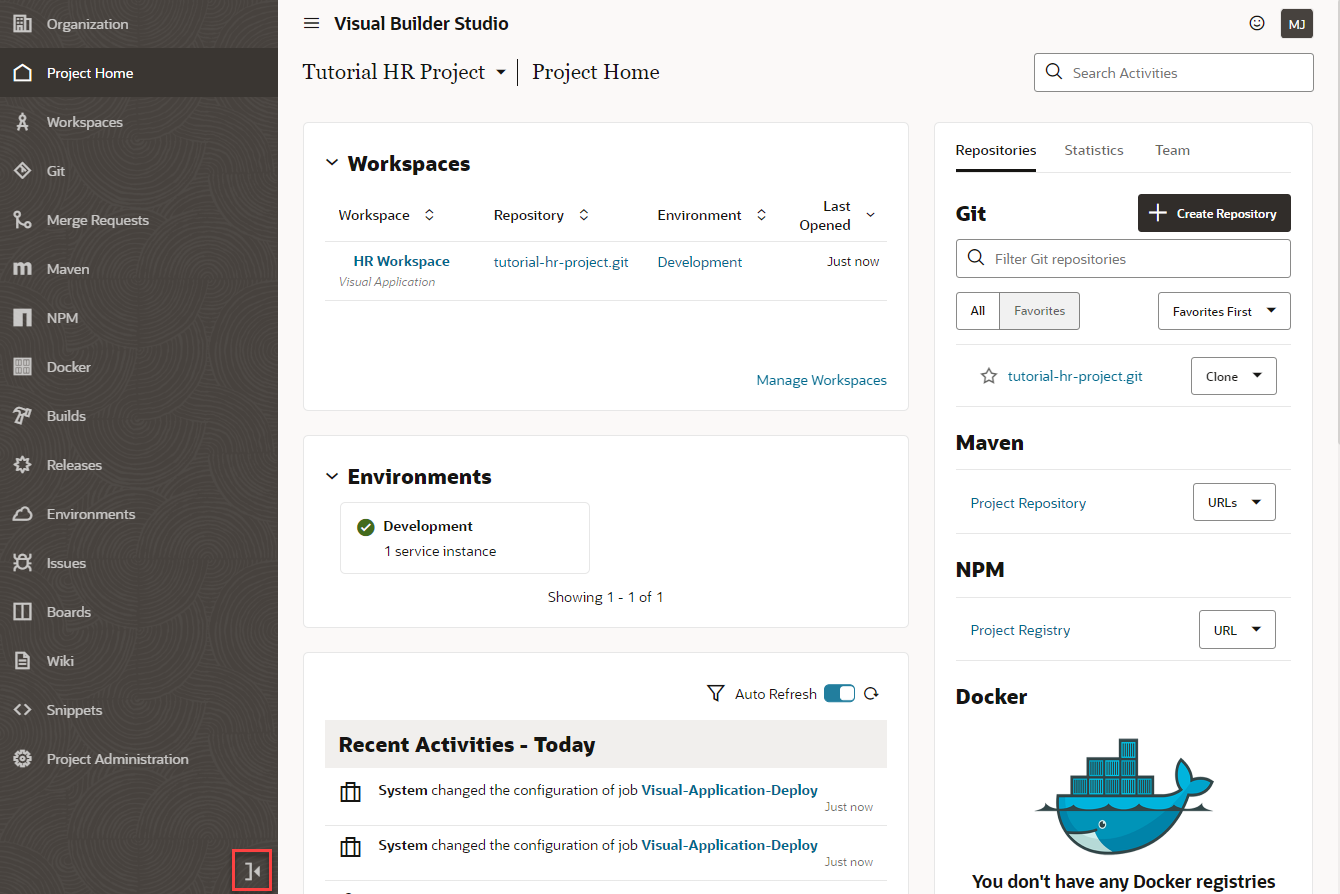
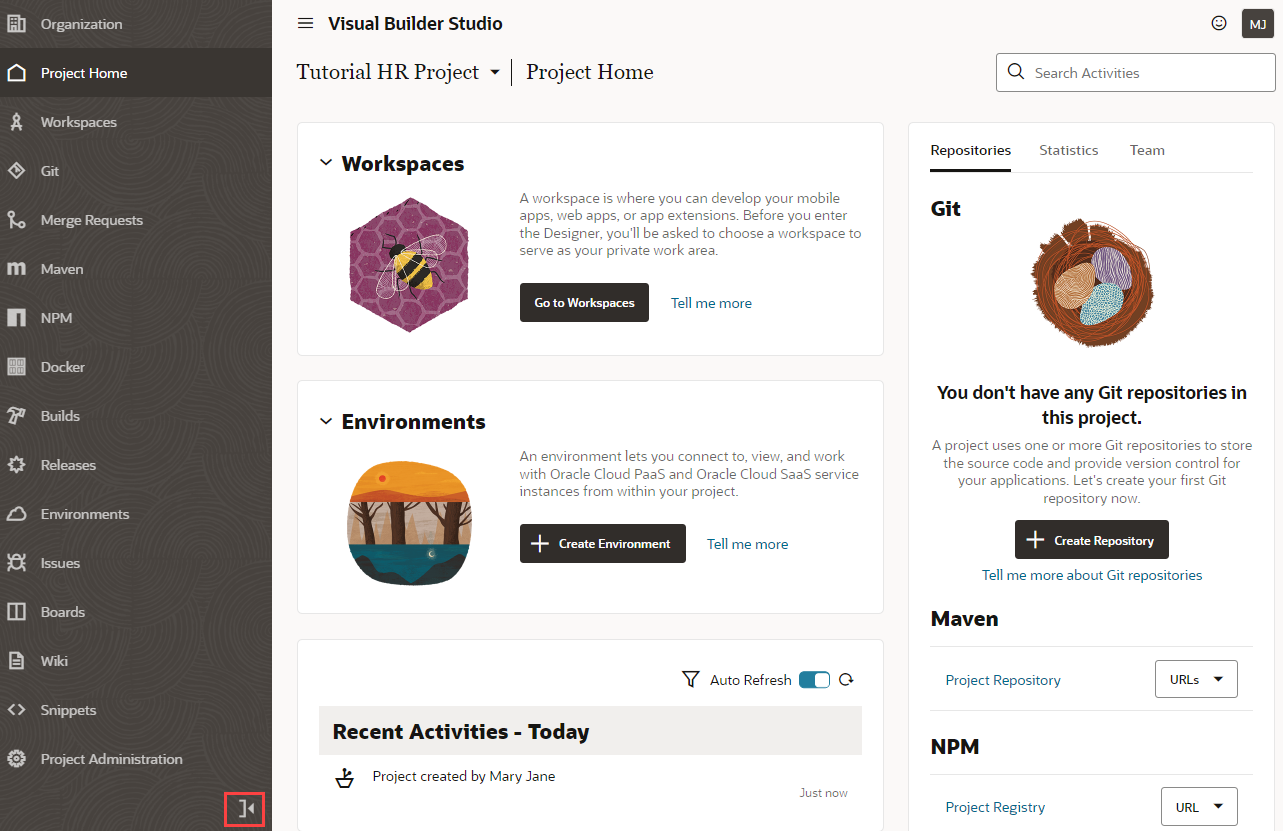
WMS 4121: Change visual app template details (#245)
* test update

* revert test update

* 23.10

- introduction
- spinupvb for Oracle Integration

* 23.10

* 23.10

* 23.10

* 23.10

* 23.10

* 23.10

* 23.10

* 23.10 changes

* 23.10

* 23.10

* updates without vis app template

Added new tasks on creating env and workspace

* changes for vis app template

- removed "explore project" and "add creds" tasks and added workspace tour in create-project
- removed workspace tour steps
- added concepts of remote and local repo to save-changes
- added deployment creds step to publish-app

* Update create-project.md

* minor update

* runthrough of steps after removing visapp template

* add detail on VB credentials option

diff --git a/visual-builder/studio/create-web-app/create-project/create-project.md b/visual-builder/studio/create-web-app/create-project/create-project.md
@@ -8,23 +8,24 @@ Estimated Time: 15 minutes
 
 ### About this Lab
 
-In this workshop, you'll build a simple Human Resources app using a _project_ with a _visual application_ template as the starting point. Every project in VB Studio is devoted to a discrete software effort, and the project you create in this lab is exclusive to the HR app. The project brings together all the tools you need to create your app: a Git repository to store your source code, a pipeline to provide continuous integration and delivery, an issue tracking system, and more. Because it is based on the visual application template, it will have everything you need to visually develop an application.
+In this workshop, you'll build a simple Human Resources app using a _project_. Every project in VB Studio is devoted to a discrete software effort, and the project you create in this lab is exclusive to the HR app. The project brings together all the tools you need to create your app: a Git repository to store your source code, an environment to deploy your application, a pipeline to provide continuous integration and delivery, an issue tracking system, and more.
 
-As part of your project, you'll also create a _workspace_, a completely private area for you to work on your application. The changes you make in your workspace are stored in a clone of the project's Git repository, and are not visible to others until you share or publish them. A workspace also connects you to the development environment where you plan to host your application, which must be a separate Visual Builder (VB) instance.
+As part of your project, you'll also create a _workspace_, a completely private area for you to work on your application. The changes you make in your workspace are stored in a clone of the project's Git repository, and are not visible to others until you share or publish them.
 
 ### Objectives
 
 In this lab, you will:
 
 * Create a project for a visual application
-* Add credentials to deploy the visual application to your VB instance
+* Create an environment with a separate Visual Builder instance
+* Create a workspace to work on your visual application
 
 ### Prerequisites
 
 This lab assumes you have:
 
 * A Chrome browser
-* A VB Studio instance and a separate VB instance
+* A VB Studio instance and a separate Visual Builder instance
 
 ## Task 1: Create a project for a visual application
 
@@ -43,16 +44,11 @@ As someone who creates a project, you'll automatically become the project's owne
 
     Click **Next**.
 
-3. On the Project Template step, select **Visual Application** and click **Next**.
+3. On the Project Template step, select **Empty Project** and click **Next**.
 
-4. On the Project Properties step:
+    ![The New Project wizard with the Empty Project template selected.](images/empty-project.png)
 
-    * Leave the **Git Repository Name** as **tutorial-hr-project.git** (based on the project name).
-    * Click **Development VB Instance** to select the VB instance where you plan to deploy your application. If you have only one VB instance provisioned, it will be automatically selected as your environment's development instance.
-    * Change the **Workspace Name** from **Workspace 1** (the default) to **HR Workspace**.
-    * Change the **Working Branch Name** from **branch1** (the default) to **hrbranch**.
-
-    Click **Next**.
+4. On the Project Properties step, leave **Wiki Markup** as **Markdown** and click **Next**.
 
 5. On the Project Team Members step, add other members of your team who will work with you on this visual application.
 
@@ -64,63 +60,82 @@ As someone who creates a project, you'll automatically become the project's owne
 
     Now click **Finish**.
 
-    Wait for the project to be provisioned. Once provisioning completes, you'll see the Project Home page, which serves as a window to your workspace, your environments, and repositories, as well as a recent activities feed. On the left are a series of tabs showing the available project components.
+    Wait for the project to be provisioned. Once provisioning completes, you'll see the Project Home page, which serves as a window to your workspaces, environments, and repositories, as well as a recent activities feed. On the left are a series of tabs showing the available project components.
 
-    ![The Project Home page includes a Workspaces area with the newly created HR Visual Application workspace. An Environments area shows the Development instance associated with this project. If you click Reset Filters, a Recent Activities feed lists what was done in the project today. On the right, the Repositories tab is selected to show the tutorial-hr-project.git. The Statistics and Team tabs are also visible.](images/project-home.png "Project Home page")
+    ![The Project Home page includes a Workspaces area, Environments area, and a Recent Activities feed. On the right, the Repositories tab, Statistics, and Team tabs are also visible.](images/project-home.png "Project Home page")
 
     Click ![Show/Hide Labels icon](images/show-hide-labels-icon.png) to hide the labels and increase screen space.
 
-## Task 2: Explore the project environment
+    Because we created a project with no preconfigured settings or content, we need to create what we need, by defining an environment that connects to a Visual Builder instance, then creating a workspace with a Git repository.
 
-Everything you need to start building a visual application is now created for you in this project. Let's step through some key components to better understand your project environment.
+## Task 2: Create an environment with a Visual Builder instance
 
-1. On the Project Home page, the **tutorial-hr-project.git** repository shows  under Workspaces as well as in the Repositories tab on the right. This Git repo stores your visual application's source files and is known as the project's _remote_ repository. Click the **tutorial-hr-project.git** link in the Workspaces table to go to the Git page. Here, you can see your project's remote branches, **main** and **hrbranch**, created with initial content for your visual application. Select **hrbranch**; the **main** branch is the default branch created when a new repository is generated and is the project's source of truth.
+Define an environment that points to your Visual Builder development instance, where your visual application can be deployed from within the project.
 
-    ![Contents of the tutorial-hr-project.git repository. Both the main and hrbranch branches are visible, with the hrbranch selected.](images/repo.png "Git page")
+1. On the Project Home page, click **Create Environment** under Environments.
 
-2. In the left navigator, click![Workspaces icon](images/vbs-workspaces-icon.png)**Workspaces** to view the **HR Workspace**. This workspace contains a working copy of **hrbranch** and serves as your _local_ repository. The **hrbranch** initially has the same set of source files as the **main** branch, but as you work with your visual application, it will include the changes you make. Your changes can't be seen by others until you save them from the local branch to a remote branch.
+    ![The Environments section on the Project Home page, showing the Create Environment button.](images/env-create.png)
 
-    ![The newly created HR Visual Application in the Workspaces table. Its repository is set to tutorial-hr-project.git, current branch is set to hrbranch, and environment is set to Development.](images/workspace.png "Workspaces page")
+2. Enter **Development** as the **Environment Name**; optionally, add a description. Click **Create**.
 
-3. Click ![Environments icon](images/vbs-environments-icon.png) **Environments** in the left navigator to view the development environment that points to your VB instance. Here, you can view details of your VB instance and all the applications you deploy to this instance.
+3. On the Environments page, click **Add Instance** to add a Visual Builder instance to your **Development** environment.
 
-    ![Development environment, with a single Visual Builder instance in the Service Instances tab. The Details, Certificates, and Deployments tabs are also visible.](images/env.png "Environments page")
+    ![The empty Development environment shown on the Environments page. An Add Instance button is shown in the Service Instances tab. The Details and Certificates tabs are also visible.](images/env-add-instance.png "Environments page")
 
-4. Click ![Builds icon](images/vbs-builds-icon.png)**Builds** in the left navigator to view the default build jobs that package and deploy your visual application to the development instance. The **Visual-Application-Package** job generates the visual application's artifact files. The **Visual-Application-Deploy** job deploys the artifact files to the development instance.
+4. In the Add Service Instances dialog, with **Instance Type** set to **Visual Builder and Oracle Integration** and **Authentication Method** set to **Identity Domain** on the left, locate the Visual Builder instance in your tenancy. Once you find the instance you want to use, select it and click **Add**.
 
-    ![Jobs tab on the Builds page. It lists two default jobs Visual-Application-Deploy and Visual-Application-Package in the All Jobs tab. Both jobs include Actions on the right to Build, Configure, View Last Build Log, and Delete. Other tabs that you can use to filter are Successful Jobs, Failed Jobs, and Test Failed Jobs. A Create Job button is also visible.](images/build-jobs.png "Jobs tab on Builds page")
+    ![The Add Service Instances dialog with myVBinstance of type Visual Builder IDCS Resource selected. An Add button is also shown.](images/env-add-service-instances.png "Environments page")
 
-5. On the Builds page, click **Pipelines** to view the **Visual Application - Package and Deploy** pipeline, which contains the two jobs we saw in the previous step. Pipelines create a chain of builds to define job dependencies. From the pipeline's **Actions** ![Actions icon](images/vbs-actions-icon.png) menu, select **View Layout** to view the defined sequence of jobs.
+    **Note:** If the Visual Builder instance you want to use does not show up in the list of instances, select **Visual Builder Credentials** under **Authentication Method**, then enter the URL to your Visual Builder instance's home page (for example, http://yourserver/ic/builder), the credentials of a user who can access that instance, and click **Add**.
 
-    ![This image shows the Pipelines tab on the Builds page, with a diagram showing the sequence of jobs: Visual-Application-Package followed by Visual-Application-Deploy. A Create Pipeline button is also visible. On the right, there are action buttons to view Instances of a pipeline as well as Build, Configure, and Delete a pipeline.](images/build-pipeline.png "Pipelines tab on Builds page")
+    Wait for the instance's Status to turn green, from 'Unknown' to 'Available'.
 
-    You'll see that the visual application pipeline, by default, runs the package job before the deploy job, so the latest application artifacts are packaged for deployment.
+5. Click ![Project Home icon](images/vbs-project-home-icon.png) **Project Home** in the left navigator to see your environment now defined.
 
-    Click **Builds** in the breadcrumbs trail to return to the main Builds page.
+## Task 3: Create a workspace for a visual application
 
-## Task 3: Add credentials to deploy the visual application
+You now need to create a workspace, a private area for you to work on your visual application. A workspace is typically associated with a Git repository where all your source files are stored.
 
-Now that your project is provisioned, let's set up the credentials that VB Studio will use to deploy your visual application to the VB development instance.
+1. On the Project Home page, click **Go to Workspaces** under Workspaces.
 
-1. Click **Jobs** on the Builds page, then from the **Actions**![Actions icon](images/vbs-actions-icon.png) menu for the **Visual-Application-Deploy** job, select **Configure**.
+2. On the Workspaces page, click **New**, then select **New Visual Application**.
 
-    ![Jobs tab on the Builds page. The Visual-Application-Deploy job in the table is selected, with its Configure button in focus.](images/build-auth.png "Configure option for Visual-Application-Deploy")
+    ![The Workspaces page with New and New Visual Application options selected.](images/workspaces-new.png "Workspaces page")
 
-2. On the Job Configuration page, click **Steps**.
+3. In the New Visual Application dialog:
 
-3. In the **Username** and **Password** fields, enter the credentials of a user who can deploy to the VB development instance.
+    * Enter **HR Workspace** as the **Workspace Name**.
+    * Select **Development** (where you previously added a Visual Builder instance) as the **Development Environment**.
+    * Leave **Default VBCS Application** as the **Visual Application Template**.
+    * Click **Create new repository** under **Git Repository**, then enter **tutorial-hr-project** as the **Repository Name** and **hrbranch** as the **Working Branch Name**.
 
-    ![Steps tab in the Job Configuration page. Both the Username and Password fields are highlighted to indicate that these fields must be updated.](images/build-auth-credentials.png "Steps tab on Job Configuration page")
+    Click **Create**.
 
-   **Tip:** Before you save your changes, take a quick look at some other settings on this page:
-    * The **Include the application version in the URL** check box (selected by default) adds a version to the URL when your application is deployed (for example, <https://host/something-else/0.1/index.html>) and is useful to identify multiple versions during development. When your app is ready to go live, you'll want to deselect this option so your application URL is something like <https://host/something-else/live/index.html> (without a version number in it).
-    * The **Use clean database** option (also selected by default) uses a new database to store your application's data. To keep your data after initially importing it (which we'll do in a later lab), you'll need to select the **Keep existing environment data** option.
+    Once your workspace is created, it opens on the Welcome page in the integrated development environment known as the Designer. The Welcome page is a launching point for connecting to data, creating apps, or adding artifacts. Before we proceed, let's take a tour of the Designer to better understand your workspace.
 
-    Click **Save**.
+    ![This image shows part of the HR Visual Application's Welcome page. The page contains tiles in three sections: Connect to Data, Create Apps, and Add Artifacts. On  the right are sections with references to documentation and other resources.](images/visual-app-welcome.png "Welcome page in the Designer")
 
-    You may **proceed to the next lab**.
+    On the left edge is a vertical toolbar with icons representing Web Applications, Service Connections, Business Objects, and so on. This toolbar is the Navigator, which helps you move between the artifacts in your visual application.
+
+    Now take a look at the header:
+
+    ![Header in the HR Visual Application workspace. The workspace name HR Visual Application is on the left. Next to it, the Git repository and current branch tutorial-hr-project.git / hrbranch are visible. On the right are icons that let you perform other actions: Undo, Redo, Preview, Publish Changes, Product Feedback, Go to File, and Menu.](images/header.png "Header")
+
+    On the left is the name of your current workspace, **HR Workspace**. Next to it is the project's Git repository and the branch currently associated with your workspace (**tutorial-hr-project.git/hrbranch**). A Git repository typically includes the default branch (**main**) and a branch where your changes are stored (**hrbranch**). The project repo serves as the _remote_ repository, with the default branch being the source from which your visual application is built. Your workspace contains a working copy of **hrbranch** and serves as your _local_ repository. This **hrbranch** initially has the same set of source files as the **main** branch, but as you work with your visual application, it will include the changes you make.
+
+    Click the workspace and the Git repo/branch to see other actions that you can perform. Clicking ![Go to Project Page icon](images/go-to-project-home-icon.png) will take you back to the Project Home page.
+
+    Elements on the right let you perform various other actions, such as undo changes or search the Git repository for a file. This workshop primarily demonstrates the options to preview your app, share it, and publish changes. If you make a mistake during this workshop, click ![Undo icon](images/undo-icon.png)  to back out of the last step you did, or the arrow next to it to undo more than one step.
+
+    Take note of the footer, which has tools that help you debug and maintain your visual app (we'll briefly look at Audits and Git History in this workshop):
+
+    ![Footer in the HR Visual Application workspace, which shows Audits, Find in Files, Git History, and Tests tabs.](images/footer.png "Footer")
+
+    Keep in mind that VB Studio saves your changes automatically as you work. A timestamp at the bottom of the page will show the time  your work was last saved. Note that changes are only saved to your local workspace repo—but more on that later.
+
+    You are now ready to create a web app and may **proceed to the next lab**.
 
 ## Acknowledgements
 
 * **Author** - Sheryl Manoharan, VB Studio User Assistance, November 2021
-* **Last Updated By/Date** - Sheryl Manoharan, September 2023
+* **Last Updated By/Date** - Sheryl Manoharan, November 2023

diff --git a/visual-builder/studio/create-web-app/create-app/create-app.md b/visual-builder/studio/create-web-app/create-app/create-app.md
@@ -2,7 +2,7 @@
 
 ## Introduction
 
-This lab shows you how to create a web app in your visual application project and populate it with business objects that store your data.
+This lab shows you how to create a web app in your visual application and populate it with business objects that store your data.
 
 Estimated Time: 15 minutes
 
@@ -33,37 +33,15 @@ This lab assumes you have:
 
 The first thing we'll do is add a web app to the HR visual application you just created. A visual application is a container for all your web and mobile applications. In this task, you add a single web app to your visual application, but you can have more than one, even both web and mobile apps in the same visual application.
 
-1. Click![Workspaces icon](images/vbs-workspaces-icon.png)**Workspaces**, then click **HR Workspace** in the Workspaces table.
-
-    The HR application opens in the Designer on the Welcome page, which serves as a launching point for connecting to data, creating apps, or adding artifacts.
-
-    ![This image shows part of the HR Visual Application's Welcome page. The page contains tiles in three sections: Connect to Data, Create Apps, and Add Artifacts. On  the right are sections with references to documentation and other resources.](images/visual-app-welcome.png "Welcome page in the Designer")
-
-    On the far left are icons representing Mobile Applications, Web Applications, Business Objects, and so on. This vertical toolbar is the Navigator, which helps you move between the artifacts in your visual application.
-
-    Now take a look at the header:
-
-    ![Header in the HR Visual Application workspace. The workspace name HR Visual Application is on the left. Next to it, the Git repository and current branch tutorial-hr-project.git / hrbranch are visible. On the right are icons that let you perform other actions: Undo, Redo, Preview, Publish Changes, Product Feedback, Go to File, and Menu.](images/header.png "Header")
-
-    On the left is the name of your current workspace, **HR Workspace**; next to it is the project's Git repository and the branch currently associated with your workspace (**tutorial-hr-project.git/hrbranch**). Click each option to see other actions that you can perform. Clicking ![Go to Project Page icon](images/go-to-project-home-icon.png) will take you back to the Project Home page.
-
-    Elements on the right let you perform various other actions, such as undo a change or search the Git repository for a file. This workshop primarily demonstrates the options to preview your app, share it, and publish changes. If you make a mistake during this workshop, click ![Undo icon](images/undo-icon.png)  to back out of the last step you did, or the arrow next to it to undo more than one step.
-
-    Take note of the footer, which has tools that help you debug and maintain your visual app (we'll briefly look at Audits and Git History in this workshop):
-
-    ![Footer in the HR Visual Application workspace, which shows Audits, Find in Files, Git History, and Tests tabs.](images/footer.png "Footer")
-
-    Keep in mind that VB Studio saves your changes automatically as you work. A timestamp at the bottom of the page will show the time  your work was last saved. Note that changes are only saved to your local workspace repo—but more on that later.
-
-2. We want to create a web application, so under **Create Apps**, click **Responsive Apps**.
+1. Under **Create Apps** in the Welcome page, click **Responsive Apps**.
 
     ![Web Apps pane of the Navigator. There is a plus sign at the top and a + Web Application button at the bottom.](images/web-apps.png "Web Apps pane")
 
     The Web Apps pane opens in the Navigator.
 
-3. Click **\+ Web Application** (or the **+** sign at the top of the Web Apps pane).
+2. Click **\+ Web Application** (or the **+** sign at the top of the Web Apps pane).
 
-4. In the Create Web Application window, enter `hrwebapp` as the **Application Name**. (You can specify uppercase as well as lowercase characters in the application name, but the name is converted to lowercase.) Leave the **Navigation Style** set to the default, **None**, and click **Create**.
+3. In the Create Web Application window, enter `hrwebapp` as the **Application Name**. (You can specify uppercase as well as lowercase characters in the application name, but the name is converted to lowercase.) Leave the **Navigation Style** set to the default, **None**, and click **Create**.
 
     The application opens on the **main-start** page, which is your application's default home page created automatically for you. (Ignore the **This dot says that you have made some changes** dialog that appears in the header for now; we'll explore Git changes in a later lab.)
 
@@ -169,7 +147,6 @@ Let's now create the Department and Employee business objects. But instead of cr
 
     Click **OK**.
 
-
 7. For the same **Location** field, click **Required** to deselect the setting (**Department** and **Id** are the only required fields for the Department object).
 
 8. Now click the **Employee** tab and change the **Department** field to a reference. Click **#** in the **Department** field's Type column and change the Type setting as follows:
@@ -230,4 +207,4 @@ Now that you have your business objects, create a diagram that visualizes the bu
 ## Acknowledgements
 
 * **Author** - Sheryl Manoharan, VB Studio User Assistance, November 2021
-* **Last Updated By/Date** - Sheryl Manoharan, September 2023
+* **Last Updated By/Date** - Sheryl Manoharan, November 2023

diff --git a/visual-builder/studio/create-web-app/publish-app/publish-app.md b/visual-builder/studio/create-web-app/publish-app/publish-app.md
@@ -40,12 +40,16 @@ Now that you are ready to publish your changes to the project's `main` branch, l
 
     ![The Publish Changes dialog box is shown, with the Merge After Review tab selected. An example commit message is shown and Clara Coder is set as a reviewer. The Publish Changes button is selected.](images/create-mr.png "")
 
+5. When prompted, add the username and password that allows your visual application to be deployed to the VB development instance, then click **Add Credentials and Continue**.
+
+    ![The Missing Deployment credentials dialog with mary.jane entered as the user name. Password is empty.](images/credentials.png "")
+
     Once the request to merge your changes from **hrbranch** to **main** is created, click **Close**. Both your reviewer and you will be notified that a new merge request has been created.
 
     ![The results when you click the Publish Changes button are shown, with the message '1 Merge hrbranch to master merge request has been created' at the end. The Close button is selected.](images/create-mr-result.png "")
 
-5. Return to the project home, then click ![Merge Requests icon](images/vbs-mergerequest-icon.png) **Merge Requests** in the left navigator. You'll see your merge request listed here. For a quick summary of the merge request, click ![Details icon](images/details-icon.png) **Details**.
-6. Click **1 Merge Request for branch 'hrbranch'**. All details of the merge request, including its current status and all previous commits, will be shown:
+6. Return to the project home, then click ![Merge Requests icon](images/vbs-mergerequest-icon.png) **Merge Requests** in the left navigator. You'll see your merge request listed here. For a quick summary of the merge request, click ![Details icon](images/details-icon.png) **Details**.
+7. Click **1 Merge Request for branch 'hrbranch'**. All details of the merge request, including its current status and all previous commits, will be shown:
 
     ![Details of the newly created merge request, #1 Merge Request for branch 'hrbranch', are shown. Its status is shown as OPEN, with a message that the requestor wants to commit 2+ commits to main from hrbranch in tutorial-hr-project.git. The Conversation tab shows an example commit message. The Merge and Close buttons are also visible.](images/create-mr-view.png "")
 
@@ -62,7 +66,9 @@ Assuming your merge request has been approved, let's now merge your changes to t
 
     The merge request shows as Merged. If you didn't choose to delete the branch, you can do so now if you want.
 
-    Once your changes are merged, VB Studio automatically kicks off the package and deploy jobs in your pipeline to deploy your web app to the development environment. Click ![Builds icon](images/vbs-builds-icon.png) **Builds** to view the progress of your build jobs.
+    Once your changes are merged, VB Studio automatically kicks off the default build jobs that package and deploy your visual application to the development environment. These jobs—**tutorial-hr-project-Package** and **tutorial-hr-project-Deploy**—are automatically generated when your workspace was first created. VB Studio also creates a pipeline, which, by default, runs the package job before the deploy job, so the latest application artifacts are packaged for deployment.
+
+    Click ![Builds icon](images/vbs-builds-icon.png) **Builds** to view the progress of your build jobs.
 
     ![The status of the Visual-Application-Package and Visual-Application-Deploy jobs on the Builds page is shown. Both jobs are triggered automatically when your commits are merged to the project's main branch.](images/merge-mr-result.png "")
 
@@ -119,4 +125,4 @@ A deployed application does not automatically include its business object data, 
 ## Acknowledgements
 
 * **Author** - Sheryl Manoharan, VB Studio User Assistance, November 2021
-* **Last Updated By/Date** - Sheryl Manoharan, September 2023
+* **Last Updated By/Date** - Sheryl Manoharan, November 2023

diff --git a/visual-builder/studio/create-web-app/save-changes/save-changes.md b/visual-builder/studio/create-web-app/save-changes/save-changes.md
@@ -12,13 +12,13 @@ While developing the HR web application, you might have noticed a yellow dot in 
 
 ![Your Git repo in the header, tutorial-hr-project.git/hrbranch, shows with a yellow dot next to it.](images/git-changes-badge.png "")
 
-This dot indicates changes in your local branch that haven't been saved to the remote branch. It's important to save your changes as often as you can, but first, let's review a few concepts.
+This dot indicates changes in your local branch that haven't been saved to the remote branch, but what exactly does that mean?
 
-When you first created a workspace, you created a new branch called **hrbranch**, which was a copy of the default branch (**main**) in the project’s Git repository and contained the same set of source files. Since then, all the changes you've made to the HR web app have been automatically saved to **hrbranch**, but these changes are not visible to others because this **hrbranch** is local to your workspace. To let others view your changes, you'll need to save your changes from the local branch in your workspace to a branch in a remote repository.
+When you first created a workspace with a branch called **hrbranch**, you created a _local_ repository that contains a working copy of **hrbranch**. The **hrbranch** initially had the same set of source files as the **main** branch, which is the default branch in your project's Git repo, also known as the _remote_ repository. As you worked on your visual application, all the changes you made to the HR web app were automatically saved to **hrbranch**, but these changes are not visible to others because this **hrbranch** is local to your workspace. To let others view your changes, you'll need to save your changes from the local branch in your workspace to a branch in the remote repository.
 
 Saving changes to a remote branch is a two-step process: _commit_ and _push_. The first step you'll do is "commit". A commit groups the files in your local branch that you want to save to the remote branch and provides a description of the group. Next, you'll "push" your changes. A push saves all the files in the groups that you've "committed" to the remote branch.
 
-Once you commit and push your changes, all the changes from your _local_ **hrbranch** become available to others in your project through the _remote_ **hrbranch**.
+Once you commit and push your changes, all the changes from your local **hrbranch** become available to others in your project through the remote **hrbranch**.
 
 ### Objectives
 
@@ -73,7 +73,7 @@ Now that your changes have been pushed, let's check them in the remote **hrbranc
 
 3. Click ![Git icon](images/git-icon.png) **Git** in the left navigator.
 
-   You'll see your changes added to the remote **hrbranch**, indicated by your last commit message.
+    You'll see your changes added to the remote **hrbranch**, indicated by your last commit message.
 
     ![The hrbranch in the repository is shown. With the Files tab selected, the latest commit message shows against the businessObjects / default folder at the top.](images/git-view-hrbranch.png "")
 
@@ -88,4 +88,4 @@ Now that your changes have been pushed, let's check them in the remote **hrbranc
 ## Acknowledgements
 
 * **Author** - Sheryl Manoharan, VB Studio User Assistance, November 2021
-* **Last Updated By/Date** - Sheryl Manoharan, September 2023
+* **Last Updated By/Date** - Sheryl Manoharan, November 2023
